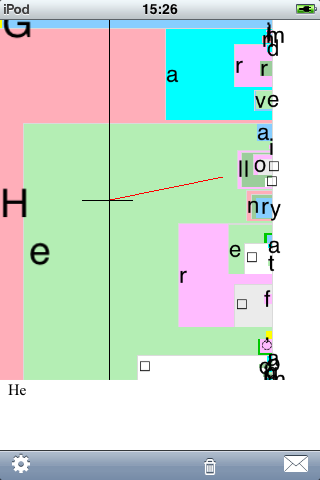
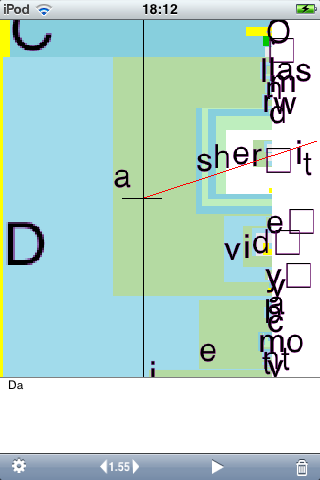
iPhone: support iPad-size screen also, inc settings/toolbar in landscape mode
Updated splashscreen (*2, in iPhone / iPad resolutions);
RM Locked.png (hourglass), use splashscreen instead

TODO: speed slider non-functional, and tilting fails in landscape orientation...

diff --git a/Src/iPhone/Classes/DasherAppDelegate.mm b/Src/iPhone/Classes/DasherAppDelegate.mm
@@ -32,6 +32,16 @@
 }
 @end
 
+@interface UINavigationController (MultiOrient)
+-(BOOL)shouldAutorotateToInterfaceOrientation:(UIInterfaceOrientation)toInterfaceOrientation;
+@end
+
+@implementation UINavigationController (MultiOrient)
+-(BOOL)shouldAutorotateToInterfaceOrientation:(UIInterfaceOrientation)toInterfaceOrientation {
+  return toInterfaceOrientation != UIInterfaceOrientationPortraitUpsideDown;
+}
+@end
+
 
 //declare some private methods!
 @interface DasherAppDelegate ()
@@ -45,6 +55,7 @@
 - (void)selectEAGLContext;
 @property (retain) UILabel *screenLockLabel;
 @property (retain) NSString *lockText;
+@property (retain) UIWindow *window;
 @property (nonatomic,retain) NSString *m_wordBoundary;
 @property (nonatomic,retain) NSString *m_sentenceBoundary;
 @property (nonatomic,retain) NSString *m_lineBoundary;
@@ -75,13 +86,15 @@ static SModuleSettings _miscSettings[] = { //note iStep and string description a
 @synthesize m_wordBoundary;
 @synthesize m_sentenceBoundary;
 @synthesize m_lineBoundary;
+@synthesize allowsRotation = m_bAllowsRotation;
+@synthesize window;
 
 -(BOOL)shouldAutorotateToInterfaceOrientation:(UIInterfaceOrientation)interfaceOrientation {
   if (interfaceOrientation == UIInterfaceOrientationPortraitUpsideDown)
     return NO;
-  if (m_bLandscapeSupported || interfaceOrientation == UIInterfaceOrientationPortrait)
-    return YES;
-  return NO;
+  if (m_bAllowsRotation) return YES;
+  UIInterfaceOrientation current = self.interfaceOrientation;
+  return interfaceOrientation == current;
 }
 
 -(void)didRotateFromInterfaceOrientation:(UIInterfaceOrientation)fromInterfaceOrientation {
@@ -89,72 +102,29 @@ static SModuleSettings _miscSettings[] = { //note iStep and string description a
   [self doLayout:self.interfaceOrientation];
 }
 
--(void)viewWillAppear:(BOOL)animated {
-  if (m_bLandscapeSupported) {
-    UIDeviceOrientation devOrient = [[UIDevice currentDevice] orientation];
-    UIInterfaceOrientation intOrient;
-    CGAffineTransform trans;
-    switch (devOrient) {
-      case UIDeviceOrientationLandscapeLeft:
-        intOrient = UIInterfaceOrientationLandscapeRight;
-        trans = CGAffineTransformMakeRotation(M_PI/2.0);
-        break;
-      case UIDeviceOrientationLandscapeRight:
-        intOrient = UIInterfaceOrientationLandscapeLeft;
-        trans = CGAffineTransformMakeRotation(-M_PI/2.0);
-        break;
-      case UIDeviceOrientationPortrait:
-      case UIDeviceOrientationPortraitUpsideDown:
-      default: //???
-        intOrient = UIInterfaceOrientationPortrait;
-        trans = CGAffineTransformIdentity;
-        break;
-    }
-    if (self.interfaceOrientation != intOrient) {
-      [[UIApplication sharedApplication] setStatusBarOrientation:intOrient];
-      self.view.transform = trans;
-      [self doLayout:intOrient];
-    }
-  }
-}
-
--(void)setLandscapeSupported:(BOOL)bLandscapeSupported {
-  m_bLandscapeSupported = bLandscapeSupported;
-  //note that if we've just _enabled_ landscape support when the phone
-  // was previously in landscape orientation (but the interface _not_),
-  // there will be no rotation event sent by the OS; however,
-  // we do our best to adjust the interface to suit (i.e., putting it into
-  // landscape mode, now that it newly supports this) in viewWillAppear:, above.
-
-  //The case of _disabling_ landscape support when the phone+interface were already in landscape
-  // orientation, we do _not_ need to handle (for now): the landscape interface does not allow
-  // calling up the settings in order to select a different input method (which might disable it!)
-}
-
 /// Sets sizes of toolbar and textview according to supplied orientation
 /// Also computes and returns desired size of glView, and sets said _iff_ glView is non-nil
 -(CGRect)doLayout:(UIInterfaceOrientation)orient {
-  CGRect appFrame = [UIScreen mainScreen].applicationFrame;
-  window.frame=appFrame;
-  self.view.frame = CGRectMake(0.0, 0.0, appFrame.size.width, appFrame.size.height);
+  self.view.frame = [UIScreen mainScreen].applicationFrame;
 
-  CGSize mainSize = self.view.bounds.size;
+  const CGSize mainSize = self.view.bounds.size;
+  //now always display toolbar, even in landscape
+  const int barHeight(mainSize.height/20);
+  const int mainHeight(mainSize.height - barHeight);
+  tools.frame = CGRectMake(0.0, mainHeight, mainSize.width, barHeight);
   CGRect dashRect,textRect;
   switch (orient) {
     case UIInterfaceOrientationPortrait: {
-      dashRect = CGRectMake(0.0, 0.0, mainSize.width, mainSize.height - 100.0);
-      textRect = CGRectMake(0.0, dashRect.size.height, mainSize.width, 70.0);
+      dashRect = CGRectMake(0.0, 0.0, mainSize.width, ((mainHeight*3)/4));
+      textRect = CGRectMake(0.0, dashRect.size.height, mainSize.width, mainHeight-dashRect.size.height);
       textView.bLandscape = NO;
-      tools.frame = CGRectMake(0.0, mainSize.height - 30.0, mainSize.width, 30.0);
-      [self.view addSubview:tools];
       break;
     }
     case UIInterfaceOrientationLandscapeRight:
     case UIInterfaceOrientationLandscapeLeft: {
-      textRect = CGRectMake(0.0, 0.0, 100.0, mainSize.height);//-30.0);
+      textRect = CGRectMake(0.0, 0.0, static_cast<int>((mainSize.width*2)/9), mainHeight);
+      dashRect = CGRectMake(textRect.size.width, 0.0, mainSize.width-textRect.size.width, mainHeight);
       textView.bLandscape = YES;
-      dashRect = CGRectMake(textRect.size.width, 0.0, mainSize.width-textRect.size.width, mainSize.height);//-30.0);
-      [tools removeFromSuperview];
       break;
     }
     default:
@@ -173,13 +143,13 @@ static SModuleSettings _miscSettings[] = { //note iStep and string description a
 - (void)applicationDidFinishLaunching:(UIApplication *)application {
   //by default, we support landscape mode (i.e. unless the input device _disables_ it)
   // - hence, set now, before the input device is activate()d...
-  m_bLandscapeSupported = YES;
+  m_bAllowsRotation = YES;
 
   //sizes set in doLayout, below...
-	window = [[UIWindow alloc] init];
+	self.window = [[[UIWindow alloc] initWithFrame:[[UIScreen mainScreen] bounds]] autorelease];
 	self.view = [[[UIView alloc] init] autorelease];
 
-	[window addSubview:self.view];
+	[self.window addSubview:self.view];
   
   //make object (this doesn't do anything much, initialization/Realize later
   // - but we have to set a screen before we Realize)
@@ -359,6 +329,7 @@ static SModuleSettings _miscSettings[] = { //note iStep and string description a
 
 -(void)presentModalViewController:(UIViewController *)modalViewController animated:(BOOL)animated {
   [glView stopAnimation];
+  [[[UIApplication sharedApplication] keyWindow] setRootViewController:modalViewController];
   [super presentModalViewController:modalViewController animated:animated];
 }
 
@@ -595,9 +566,10 @@ static SModuleSettings _miscSettings[] = { //note iStep and string description a
   CGSize mainSize = [UIScreen mainScreen].applicationFrame.size;
   UIViewController *lockCon = [[[UIViewController alloc] init] autorelease];
   UIImageView *imgView = [[[UIImageView alloc] initWithFrame:CGRectMake(0.0, 0.0, mainSize.width, mainSize.height)] autorelease];
-  imgView.image = [UIImage imageNamed:@"Locked.png"];
+  imgView.image = [UIImage imageNamed:@"Default"];
+  imgView.contentMode = UIViewContentModeBottomRight;
   lockCon.view = imgView;
-  CGRect mainLabelRect = CGRectMake(40.0, 200.0, mainSize.width-80.0, 80.0);
+  CGRect mainLabelRect = CGRectMake(40.0, (mainSize.height*5)/12, mainSize.width-80.0, mainSize.height/6);
   UILabel *lbl1 = [[[UILabel alloc] initWithFrame:mainLabelRect] autorelease];
   lbl1.backgroundColor = [UIColor colorWithRed:0.0 green:0.0 blue:0.0 alpha:0.8];
   lbl1.textColor = [UIColor whiteColor];
@@ -605,7 +577,7 @@ static SModuleSettings _miscSettings[] = { //note iStep and string description a
   lbl1.text = msg;
   lbl1.adjustsFontSizeToFitWidth = YES;
   [imgView addSubview:lbl1];
-  UILabel *lbl2 = [[[UILabel alloc] initWithFrame:CGRectMake(mainLabelRect.origin.x+20.0,mainLabelRect.origin.y+mainLabelRect.size.height+20,mainLabelRect.size.width-40, mainLabelRect.size.height-40)] autorelease];
+  UILabel *lbl2 = [[[UILabel alloc] initWithFrame:CGRectMake(mainLabelRect.origin.x+20.0,(mainSize.height*15)/24,mainLabelRect.size.width-40, mainSize.height/12)] autorelease];
   lbl2.backgroundColor = lbl1.backgroundColor;
   lbl2.textColor = lbl1.textColor;
   lbl2.textAlignment = UITextAlignmentCenter;

diff --git a/Src/iPhone/Classes/ParametersController.mm b/Src/iPhone/Classes/ParametersController.mm
@@ -43,7 +43,7 @@ using Dasher::Settings::GetParameterName;
   view.backgroundColor = [UIColor whiteColor];
   
   int y=[self layoutOptionsOn:view startingAtY:15];
-  [view setContentSize:CGSizeMake(320.0,y-15)];
+  [view setContentSize:CGSizeMake([UIScreen mainScreen].applicationFrame.size.width,y-15)];
 }
 
 -(int)layoutOptionsOn:(UIView *)view startingAtY:(int)y {
@@ -53,6 +53,7 @@ using Dasher::Settings::GetParameterName;
 
 -(int)layoutModuleSettings:(SModuleSettings *)settings count:(int)count onView:(UIView *)view startingAtY:(int)y {
   CDasherInterfaceBridge *intf = [DasherAppDelegate theApp].dasherInterface;
+  CGSize appSize = [UIScreen mainScreen].applicationFrame.size;
   for (int i=0; i<count; i++) {
     if (settings[i].iType == T_BOOL) {
       UISwitch *sw=[self makeSwitch:NSStringFromStdString(GetParameterName(settings[i].iParameter)) onView:view atY:&y];
@@ -60,8 +61,9 @@ using Dasher::Settings::GetParameterName;
       sw.on = intf->GetBoolParameter(settings[i].iParameter);
       [sw addTarget:self action:@selector(boolParamChanged:) forControlEvents:UIControlEventValueChanged];
     } else if (settings[i].iType == T_LONG) {
-      UILabel *label = [[[UILabel alloc] initWithFrame:CGRectMake(10.0, y, 300.0, 20.0)] autorelease];
-      UISlider *slider = [[[UISlider alloc] initWithFrame:CGRectMake(10.0, y+20, 300.0, 20.0)] autorelease];
+      UILabel *label = [[[UILabel alloc] initWithFrame:CGRectMake(10.0, y, appSize.width-20, 20.0)] autorelease];
+      label.textAlignment = UITextAlignmentCenter;
+      UISlider *slider = [[[UISlider alloc] initWithFrame:CGRectMake(10.0, y+20, appSize.width-20, 20.0)] autorelease];
       slider.tag = (int)label; label.tag=(int)&settings[i];
       slider.minimumValue = settings[i].iMin; slider.maximumValue = settings[i].iMax;
       slider.value = intf->GetLongParameter(settings[i].iParameter);
@@ -75,17 +77,25 @@ using Dasher::Settings::GetParameterName;
 }
 
 -(UISwitch *)makeSwitch:(NSString *)title onView:(UIView *)view atY:(int *)pY {
-  UILabel *label = [[[UILabel alloc] initWithFrame:CGRectMake(10.0, *pY, 190.0, 20.0)] autorelease];
+  CGFloat appWidth = [UIScreen mainScreen].applicationFrame.size.width;
+  const int textWidth(ceil([title sizeWithFont:[UIFont systemFontOfSize:[UIFont labelFontSize]]].width));
+
+  UISwitch *sw = [[[UISwitch alloc] initWithFrame:CGRectMake(10.0, *pY, appWidth/3, 20.0)] autorelease];
+  //UISwitch's ignore the size with which they are constructed and make themselves
+  // a default "sensible" size...
+  CGSize swSize = sw.frame.size;
+  UILabel *label = [[[UILabel alloc] initWithFrame:CGRectMake(floor((appWidth-textWidth-swSize.width-20)/2), *pY, textWidth, swSize.height)] autorelease];
   label.text = title;
-  UISwitch *sw = [[[UISwitch alloc] initWithFrame:CGRectMake(210.0, *pY, 100.0, 20.0)] autorelease];
+  sw.frame = CGRectMake(label.frame.origin.x + textWidth+20, *pY, swSize.width, swSize.height);
+  
   [view addSubview:label];
   [view addSubview:sw];
-  *pY += 50;
+  *pY += swSize.height+30;
   return sw;
 }
 
 -(int)makeNoSettingsLabelOnView:(UIView *)view atY:(int)y {
-  UILabel *label=[[[UILabel alloc] initWithFrame:CGRectMake(10.0, y, 300.0, 20.0)] autorelease];
+  UILabel *label=[[[UILabel alloc] initWithFrame:CGRectMake(10.0, y, view.bounds.size.width-20, 20.0)] autorelease];
   label.text=@"No Settings";
   [view addSubview:label];
   return y+50;

diff --git a/Src/iPhone/Classes/DasherAppDelegate.h b/Src/iPhone/Classes/DasherAppDelegate.h
@@ -28,7 +28,7 @@
   UITextView *messageLabel;
   UISlider *speedSlider;
   BOOL doneSetup;
-  BOOL m_bLandscapeSupported;
+  BOOL m_bAllowsRotation;
   /// Should really be part of UIViewController (lockable), below...but then, how to find?
   UILabel *screenLockLabel;
   NSMutableArray *toolbarItems;
@@ -53,12 +53,10 @@
 - (NSString *)textAtOffset:(unsigned int)offset Length:(unsigned int)length;
 - (void)setLockText:(NSString *)s;
 - (void)displayMessage:(NSString *)msg;
-- (void)setLandscapeSupported:(BOOL)supported;
 + (DasherAppDelegate *)theApp;
 
-//@property (nonatomic, retain) IBOutlet EAGLView *glView;
-//@property (nonatomic, retain) IBOutlet UIWindow *window;
 @property (readonly) CDasherInterfaceBridge *dasherInterface;
+@property BOOL allowsRotation;
 @end
 
 @interface UIViewController (lockable)

diff --git a/Src/iPhone/Classes/IPhoneInputs.mm b/Src/iPhone/Classes/IPhoneInputs.mm
@@ -80,13 +80,13 @@ void CIPhoneTiltInput::NotifyTilt(float fx, float fy, float fz) {
 }
 
 void CIPhoneTiltInput::Activate() {
-  [[DasherAppDelegate theApp] setLandscapeSupported:NO];
+  [DasherAppDelegate theApp].allowsRotation=NO;
   UIAccelerometer*  theAccelerometer = [UIAccelerometer sharedAccelerometer];
   theAccelerometer.updateInterval = 0.01; //in secs
   theAccelerometer.delegate = deleg;
 }
 void CIPhoneTiltInput::Deactivate() {
-  [[DasherAppDelegate theApp] setLandscapeSupported:YES];
+  [DasherAppDelegate theApp].allowsRotation=YES;
   [UIAccelerometer sharedAccelerometer].delegate = nil;
 }
 
